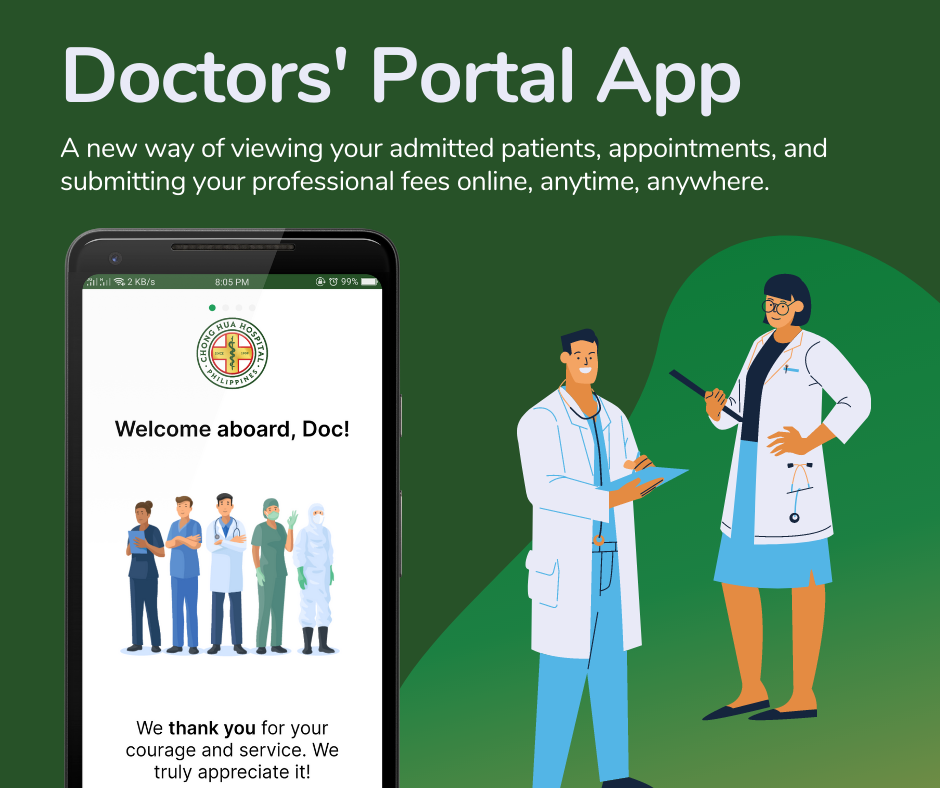
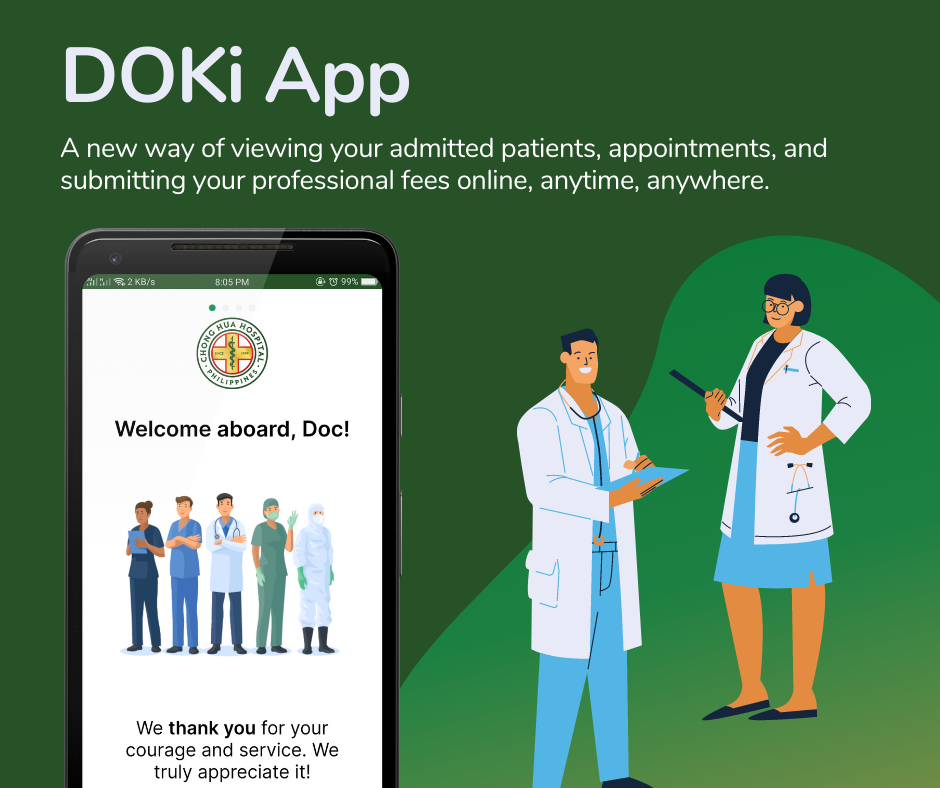
Update open graph related files with new DOKi branding.

Changed region(s): [[0.1234, 0.0609, 0.8021, 0.1523], [0.0617, 0.2132, 0.833, 0.2437]]

diff --git a/src/index.html b/src/index.html
@@ -2,7 +2,7 @@
 <html lang="en">
   <head>
     <meta charset="utf-8" />
-    <title>Chong Hua Hospital - Doctors' Portal</title>
+    <title>DOKi App from Chong Hua Hospital</title>
 
     <base href="/" />
 
@@ -19,10 +19,10 @@
     <!-- Meta tags for Social Share -->
     <meta 
       property="og:title" 
-      content="Doctors' Portal App from Chong Hua Hospital" />
+      content="DOKi App from Chong Hua Hospital" />
     <meta
       property="og:description"
-      content="Hey Doc! Check out Chong Hua Hospital's Doctors' Portal App!"
+      content="Hey Doc! Check out Chong Hua Hospital's DOKi App!"
     />
     <meta
       property="og:image"
@@ -33,8 +33,8 @@
       content="https://doctorsportal.chonghua.com.ph"
     />
     <meta name="twitter:card" content="summary_large_image" />
-    <meta property="og:site_name" content="Chong Hua Hospital's Doctors' Portal App" />
-    <meta name="twitter:image:alt" content="Chong Hua Hospital's Doctors' Portal App" />
+    <meta property="og:site_name" content="Chong Hua Hospital's DOKi App" />
+    <meta name="twitter:image:alt" content="Chong Hua Hospital's DOKi App" />
 
     <!-- Add to Homescreen for iOS -->
     <link rel="apple-touch-icon" href="/assets/icons/icon-192x192.png" />
